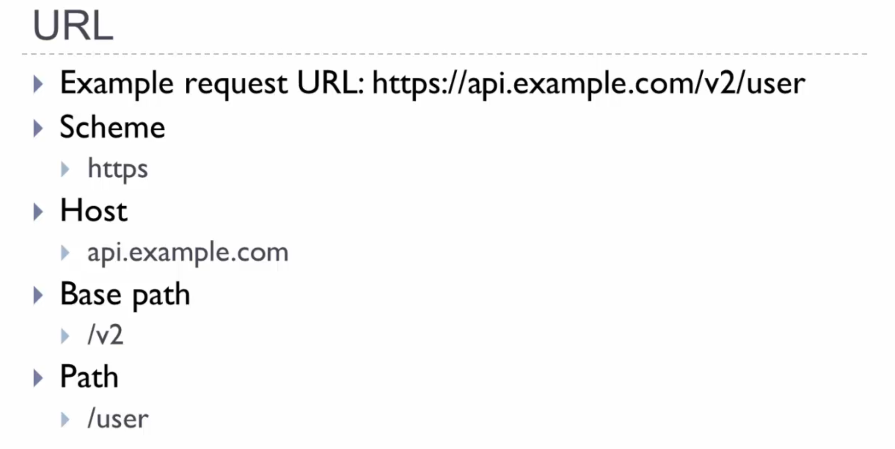
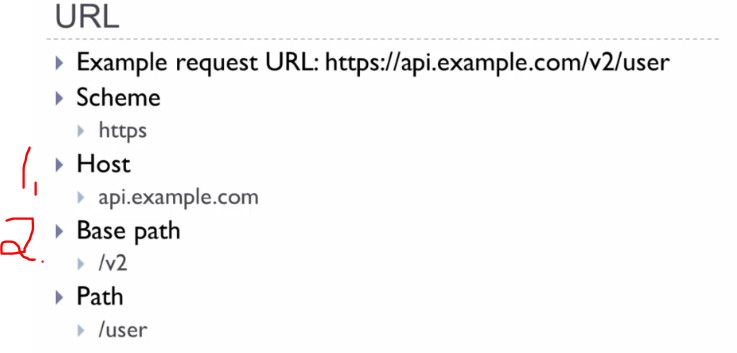
proceeded

diff --git a/README.md b/README.md
@@ -153,7 +153,7 @@ Linkedin puts this shit front, when clicking from private mode x(. Need to put t
 - [x] [SpotifyAPI](https://developer.spotify.com/).
     - [ ] [SpotifyAPI OAuth2.0](https://developer.spotify.com/documentation/web-api/concepts/authorization).
 - [ ] [Crash Course on API design](https://www.youtube.com/watch?v=6WGxVttWaXE&list=WL&index=94).
-- [x] Write some mockup **Swagger API** documentation. [Link to .YAML](#) ✔
+- [x] Write some mockup **Swagger API** documentation. [Link to .YAML](https://github.com/developersCradle/java-web-dev-soap-rest-api/blob/main/Learn%20Swagger%20and%20the%20OpenAPI%20Specification/Section%2002/Assigment%2003/schemas.yaml) ✔
 - [ ] Read thought [RFC2616](https://datatracker.ietf.org/doc/html/rfc2616) - Hypertext Transfer Protocol -- HTTP/1.1.
 - [ ] Read thought [RFC7617](https://datatracker.ietf.org/doc/html/rfc7617) - Basic Auth.
 - [ ] Read thought [RFC7519](https://datatracker.ietf.org/doc/html/rfc7519) - JSON Web Token (JWT).

diff --git a/Learn Swagger and the OpenAPI Specification/Section 02/README.md b/Learn Swagger and the OpenAPI Specification/Section 02/README.md
@@ -412,4 +412,19 @@ definitions:
                
 ```
 
-# 7. Open API Specification Continued
+# 7. Open API Specification Continued.
+
+<img src="openAPIspesification.PNG" alt="alt text" width="500"/>
+
+<img src="securitySpecs.PNG" alt="alt text" width="500"/>
+
+- **Open API specification** handles **Authorization** and the **Authentication**.
+
+<img src="securityTypes.PNG" alt="alt text" width="500"/>
+
+1. There are 4 types.
+2. When using this, the **API** is considered to be **public**.
+3. When using this one, the **app** is considered to have **permissions** to use API.
+4. **Standard**, but not very secure.
+5. This is **a complex way** to use **username** and **password** uses **tokens** instead.
+  - If **token** gets stolen, it can **expire quickly**.

diff --git a/Learn Swagger and the OpenAPI Specification/Section 01/README.md b/Learn Swagger and the OpenAPI Specification/Section 01/README.md
@@ -64,9 +64,9 @@
 
 <img src="url.PNG" alt="alt text" width="500"/>
 
-- **Host** is the part the **domain part**. Example `api.example.com`
+1. **Host** is the part the **domain part**. Example `api.example.com`.
 
-- **Base path** is the **URL** which is shared in specific **URL**. 
+2. **Base path** is the **URL** which is shared in specific **URL**. 
 
 <img src="metohod.PNG" alt="alt text" width="500"/>
 
